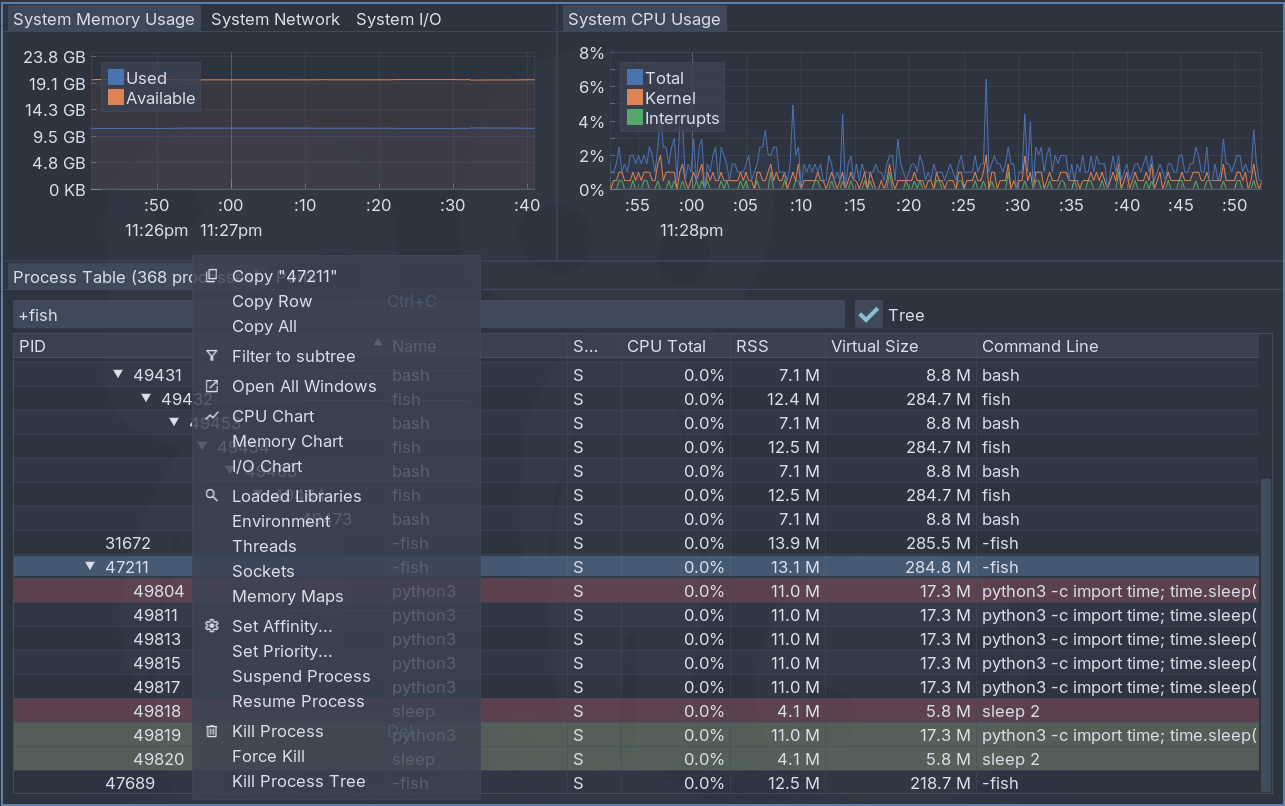
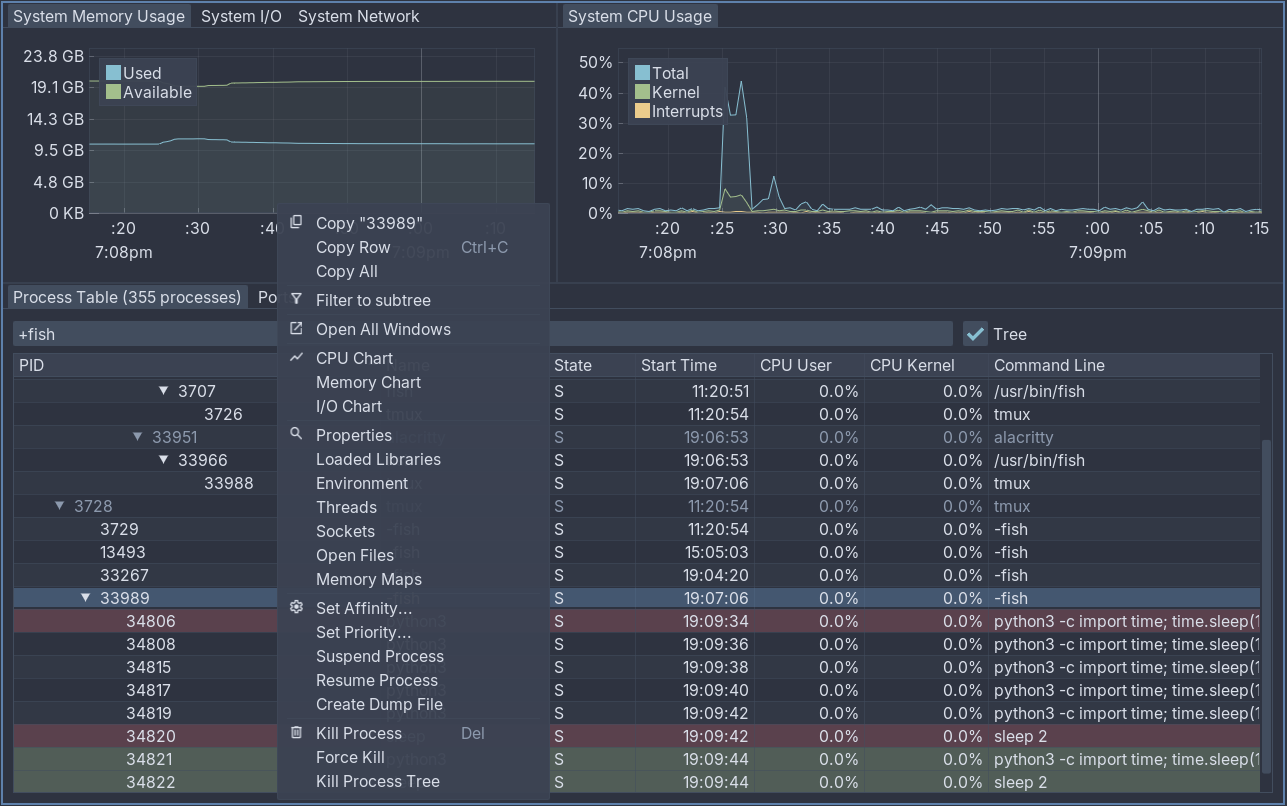
Update README

diff --git a/README.md b/README.md
@@ -6,7 +6,7 @@ live system charts (CPU, memory, I/O, network) and per-process charts (CPU,
 memory, I/O), and detailed inspectors for libraries, sockets, threads, and
 environment — with controls to suspend, kill, or reprioritize processes.
 
-![Screenshot (Light theme)](./images/shot-light.png)
+![Screenshot (Everforest Light theme)](./images/shot-everforest-light.png)
 
 ![Screenshot (Nord theme)](./images/shot-nord.png)
 
@@ -20,6 +20,7 @@ environment — with controls to suspend, kill, or reprioritize processes.
 - Kill (SIGTERM), force kill (SIGKILL), or kill entire process tree
 - Suspend / resume processes
 - Set CPU affinity and nice priority
+- Create a core dump (via gcore) without terminating the process
 
 ### System Charts
 - CPU usage (total, kernel, interrupts) with optional per-core and stacked views
@@ -30,10 +31,12 @@ environment — with controls to suspend, kill, or reprioritize processes.
 ### Per-Process Details
 - Right-click any process to open:
   - Dedicated charts (CPU, memory, I/O)
+  - Properties
   - Loaded libraries with mapped/file sizes
   - Memory maps with address, permissions, RSS/PSS/swap, and grouping by mapping
   - Sockets
   - Threads
+  - Open files (fd, type, access, size, path)
   - Environment variables
 - Double-click to open all windows at once
 
@@ -50,7 +53,7 @@ environment — with controls to suspend, kill, or reprioritize processes.
 - Menu bar, optionally shown only on Alt
 
 ### Appearance & Preferences
-- Themes: Dark, Light, Classic, Enemymouse, Nord, OneNord
+- Themes: Dark, Light, Classic, Enemymouse, Nord, OneNord, Everforest Dark, Everforest Light
 - Custom TTF font
 - Adjustable window opacity, UI scale, target FPS, and update interval
 
@@ -64,6 +67,9 @@ It dynamically loads the libraries below, which are already present on a standar
 - **A display backend**, one of:
   - **X11** — `libX11.so.6` `libXcursor`, `libXi`, `libXrandr`, `libXinerama`
   - **Wayland** — `libwayland-client.so.0`, `libwayland-cursor.so.0`, `libwayland-egl.so.1`, `libxkbcommon.so.0`
+
+Optionally, the "Create Dump File" action shells out to `gcore` (shipped with
+**gdb**); install gdb to enable it.
 
 On a minimal or headless system, install them explicitly:
 
